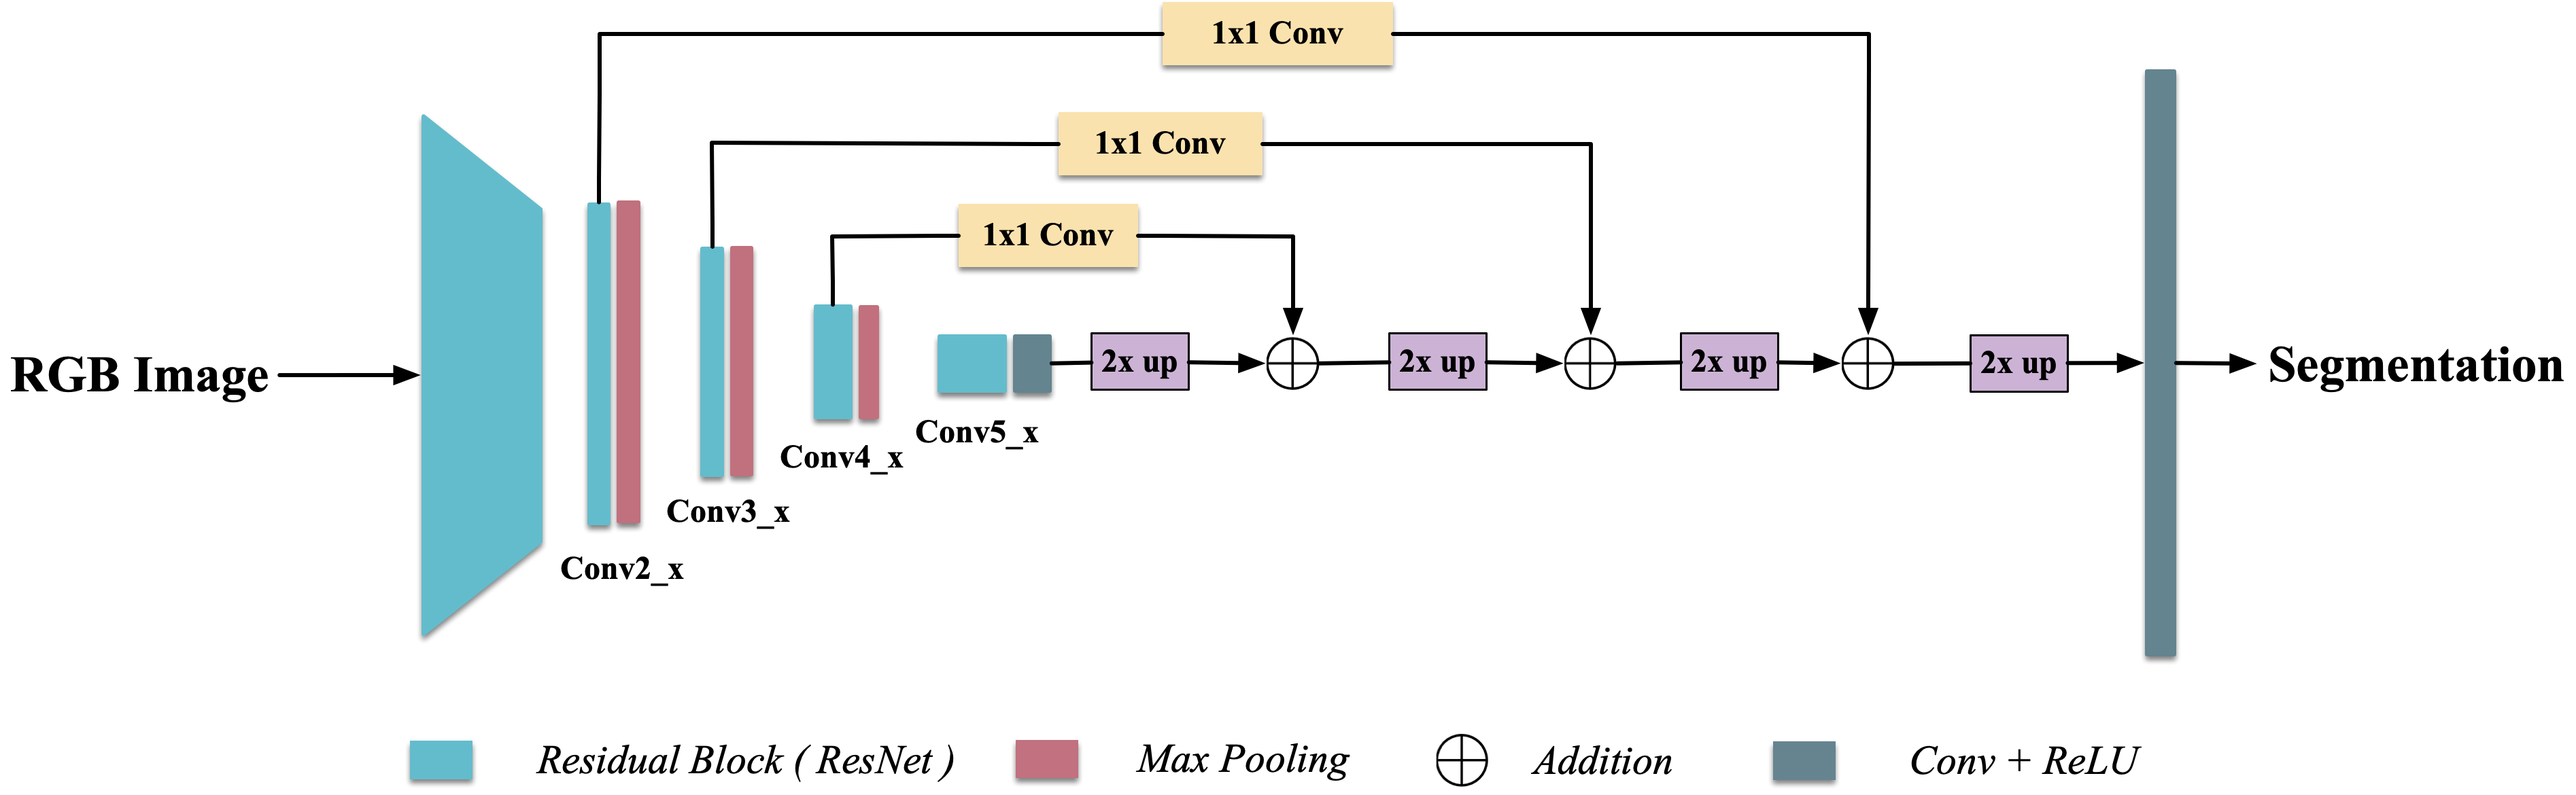
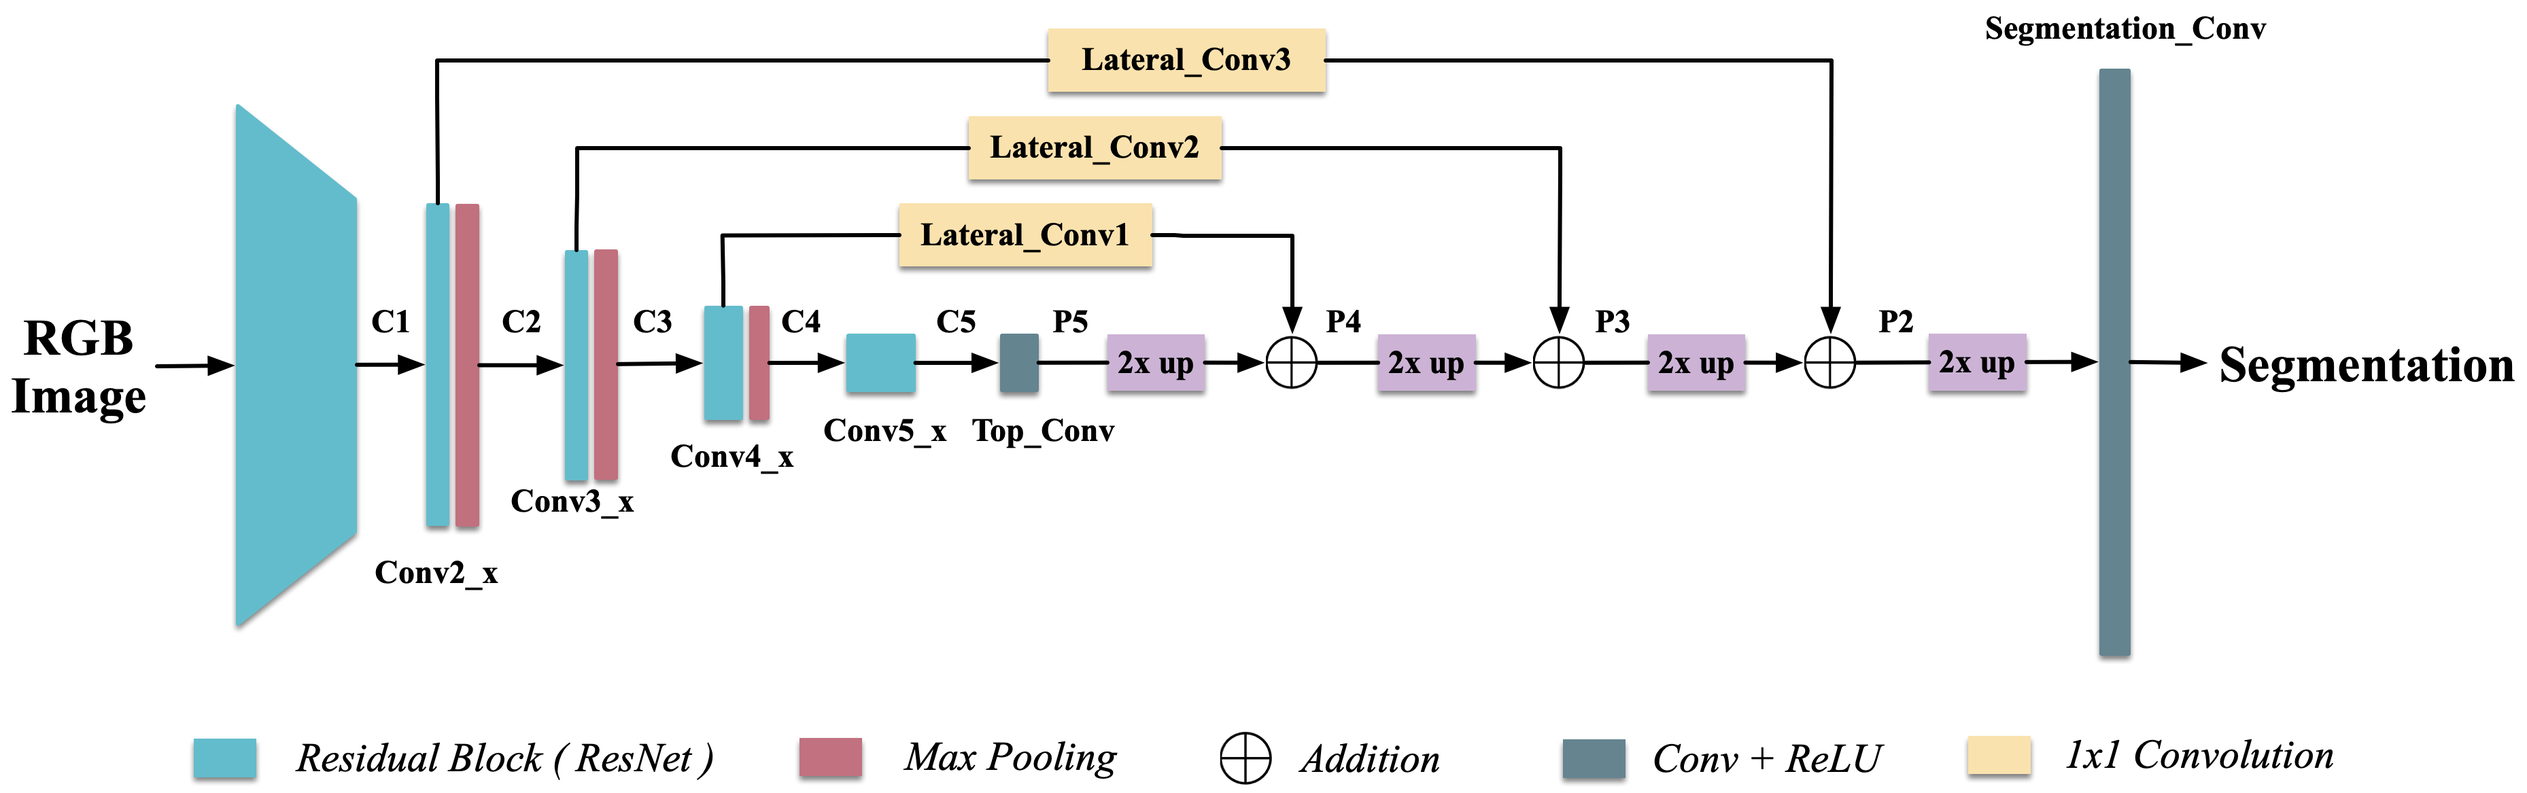
updated network architecture diagram in readme

diff --git a/scripts/res18_skip.py b/scripts/res18_skip.py
@@ -11,42 +11,43 @@ class Resnet18Skip(nn.Module):
         self.args = args
         super(Resnet18Skip, self).__init__()
         # Load pre-trained lyrn_backend
-        pre_trained_backbone = models.resnet18(pretrained=False)
+        res18 = models.resnet18(pretrained=False)
         # with torch.no_grad():
-        self.resnet_backbone = nn.Sequential(*list(
-            pre_trained_backbone.children())[:-6])
-        self.conv2_x = nn.Sequential(*list(
-            pre_trained_backbone.children())[-6:-5])
-        self.conv3_x = nn.Sequential(*list(
-            pre_trained_backbone.children())[-5:-4])
-        self.conv4_x = nn.Sequential(*list(
-            pre_trained_backbone.children())[-4:-3])
-        self.conv5_x = nn.Sequential(*list(
-            pre_trained_backbone.children())[-3:-2])
+        print(res18)
+        self.resnet_backbone = nn.Sequential(*list(res18.children())[:-6])
+        self.conv2_x = nn.Sequential(*list(res18.children())[-6:-5])
+        self.conv3_x = nn.Sequential(*list(res18.children())[-5:-4])
+        self.conv4_x = nn.Sequential(*list(res18.children())[-4:-3])
+        self.conv5_x = nn.Sequential(*list(res18.children())[-3:-2])
 
         self.top_conv = nn.Sequential(
-            nn.Conv2d(512, 128, 3, 1, 1),
+            # 
+            nn.Conv2d(512, 128, 1),
             nn.ReLU())
         
         self.lateral_conv1 = nn.Sequential(
-            nn.Conv2d(256, 128, 3, 1, 1),
+            nn.Conv2d(256, 128, 1),
             nn.ReLU())
         
         self.lateral_conv2 = nn.Sequential(
-            nn.Conv2d(128, 128, 3, 1, 1),
+            nn.Conv2d(128, 128, 1),
             nn.ReLU())
 
         self.lateral_conv3 = nn.Sequential(
-            nn.Conv2d(64, 128, 3, 1, 1),
+            nn.Conv2d(64, 128, 1),
             nn.ReLU())
-        
+
+
+        def upsample_add(self, low_res_map, high_res_map):
+            upsampled_map = nn.UpsamplingBilinear2d(scale_factor=2)(low_res_map)
+            return upsampled_map + high_res_map
+
         # backgound is automatically considered as one additional class,
         # with label '0'
         self.seg_conv = nn.Sequential(
-            nn.UpsamplingBilinear2d(scale_factor=2),
-            nn.Conv2d(128, 64, 3, 1, 1),
+            nn.Conv2d(128, 64, kernel_size=3, stride=1, pad=1),
             nn.ReLU(),
-            nn.Conv2d(64, self.args.n_classes + 1, kernel_size=1, bias=True)
+            nn.Conv2d(64, self.args.n_classes + 1, kernel_size=1)
         )
         
         self.criterion = CrossEntropyLoss()
@@ -56,9 +57,6 @@ class Resnet18Skip(nn.Module):
             self.optimiser, gamma=self.args.scheduler_gamma,
             step_size=self.args.scheduler_step)
 
-    def upsample_add(self, low_res_map, high_res_map):
-        upsampled_map = nn.UpsamplingBilinear2d(scale_factor=2)(low_res_map)
-        return upsampled_map + high_res_map
         
     def forward(self, img):
         # Encoder

diff --git a/README.md b/README.md
@@ -33,7 +33,8 @@ open and run detector_test.ipynb from the browser
 
 ## Network Architecture:
 ![Network Architecture](readme_pics/rvss_arch.png)
-*Illustration of the network architecture*
+*Illustration of the network architecture, 
+notations (c1, c2, ect. corresponds to the variable name in res18_skip.py script)*
 
 The network has a auto-encoder, decoder structure.
 ResNet18 with pre-trained weights is used as the auto-encoder. 
